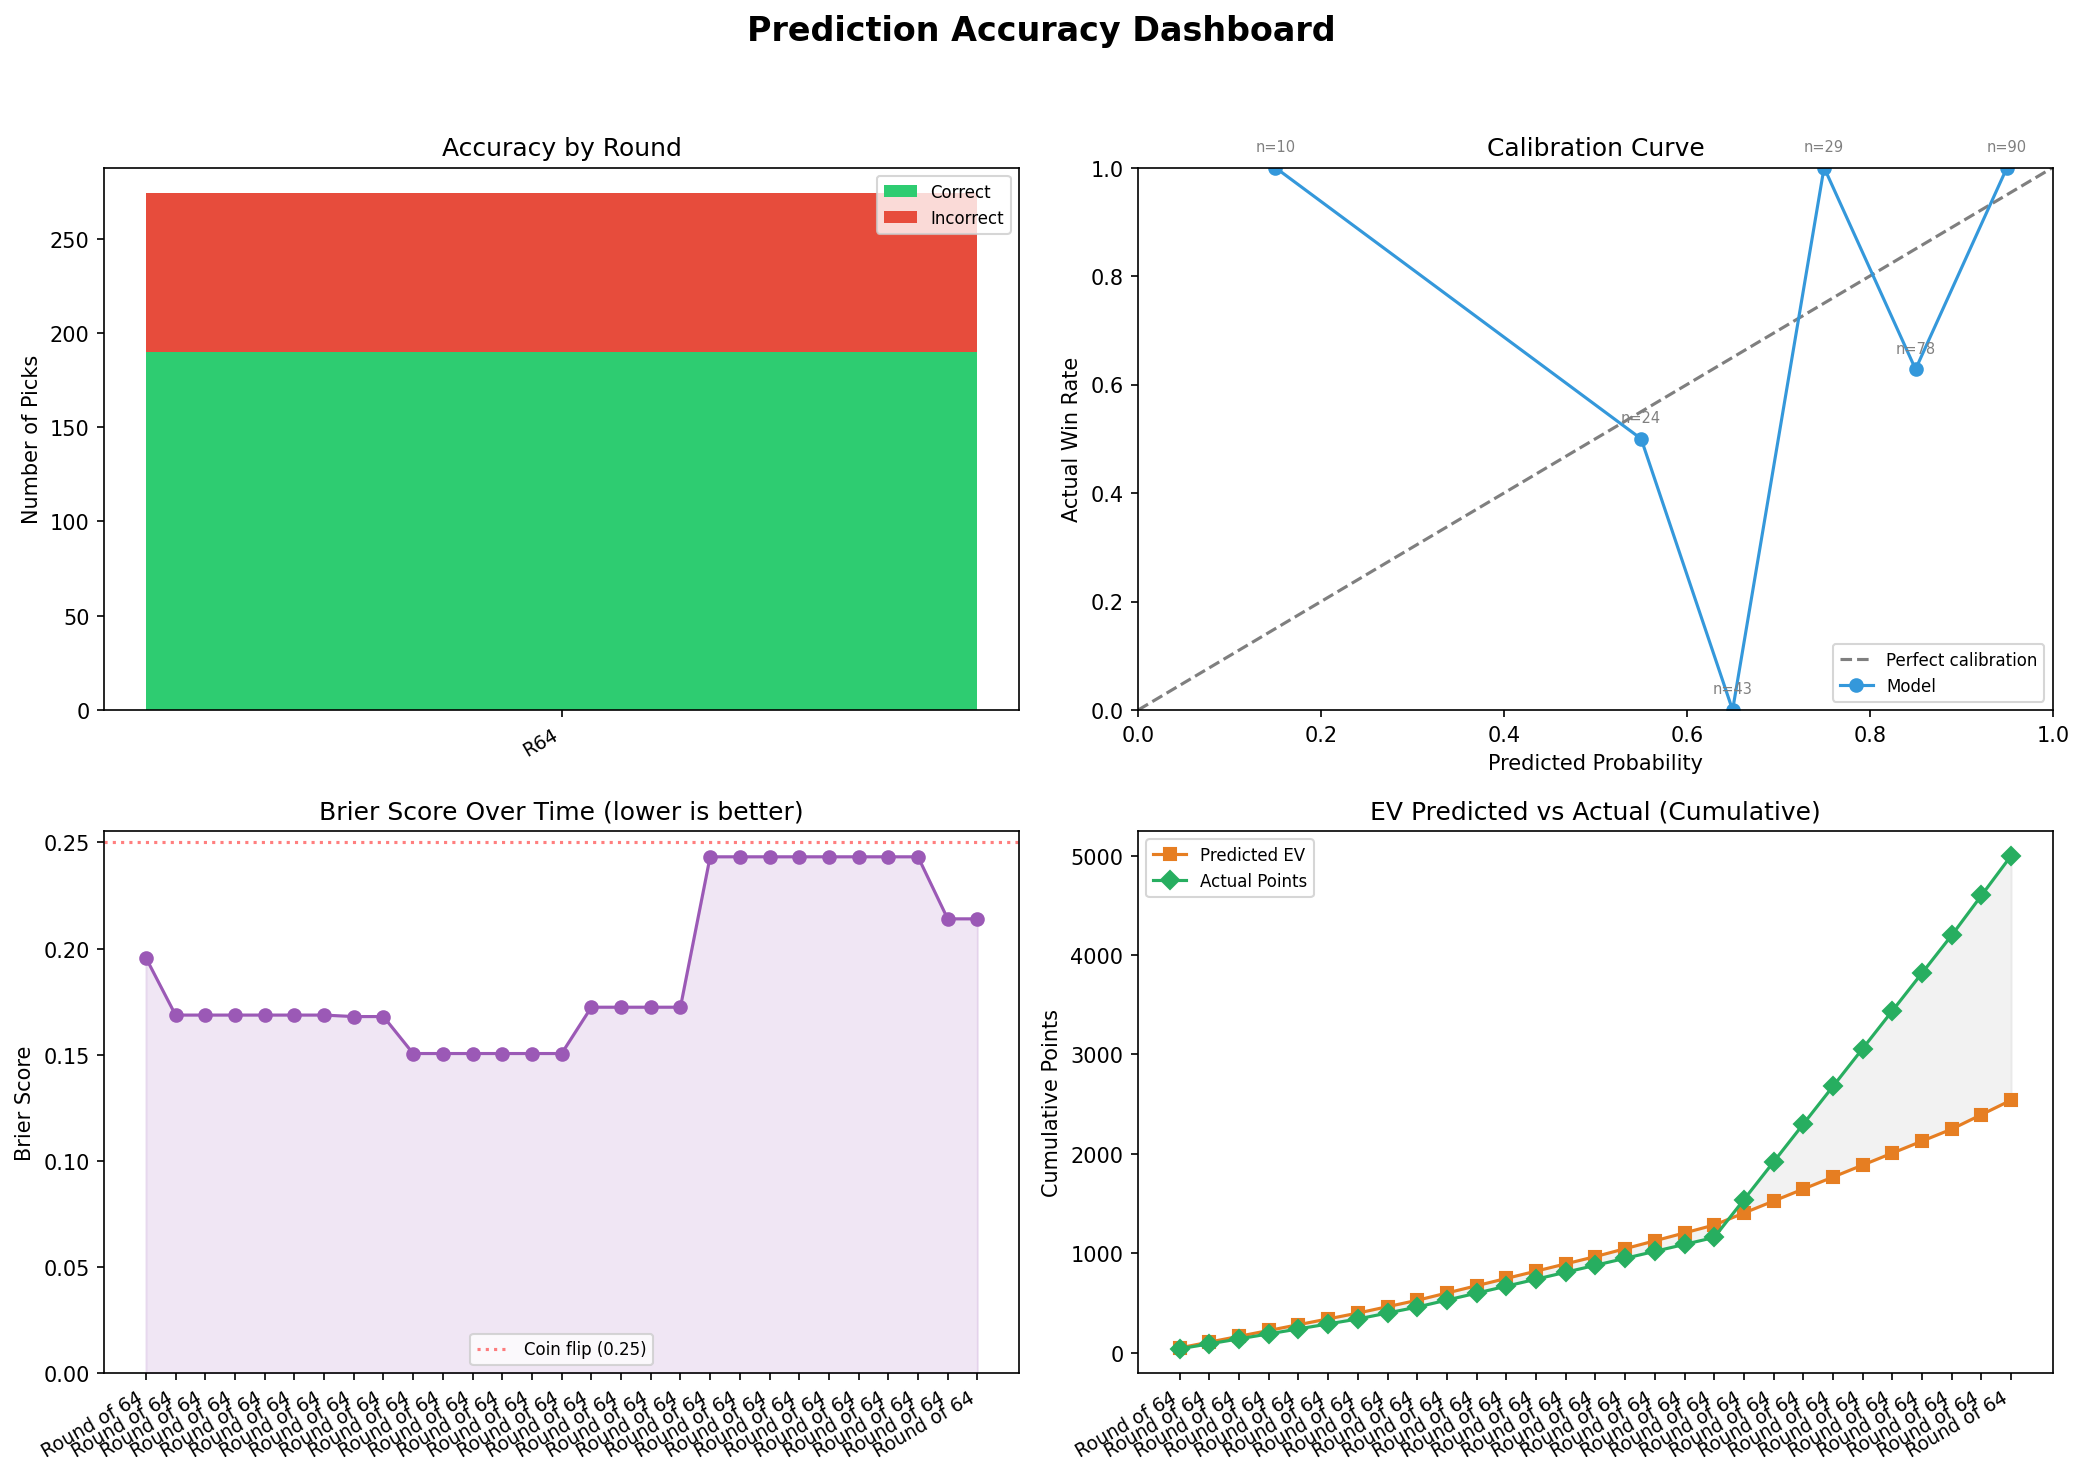
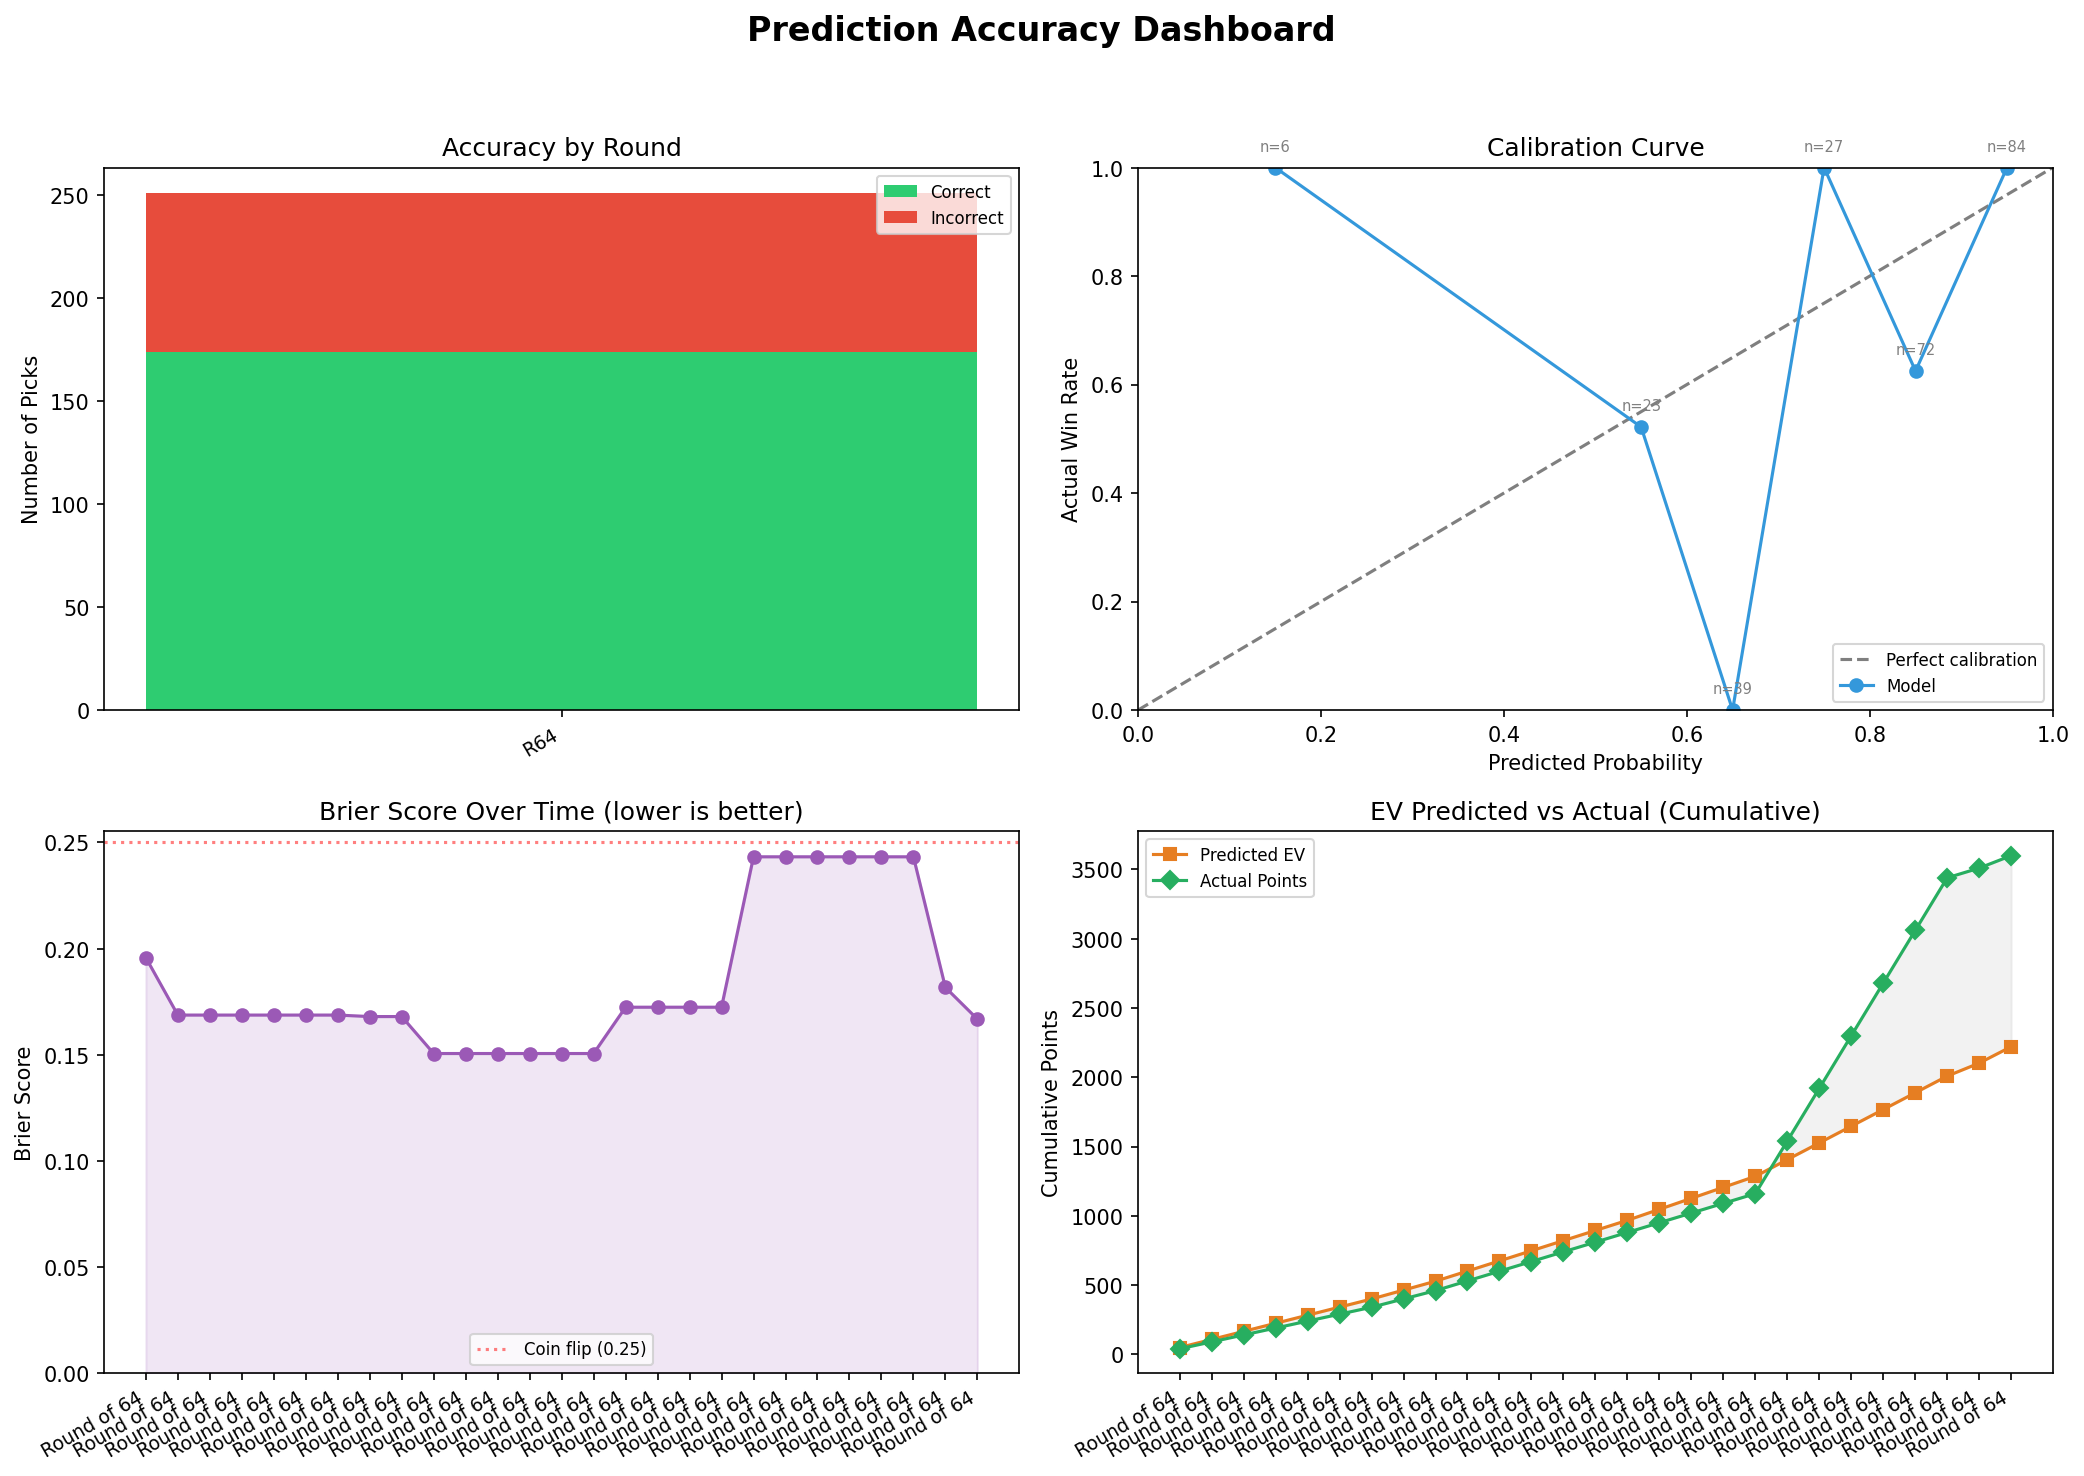
fix: _detect_round matched "Final" status as Championship round
ESPN's status description for completed games is "Final" (game over),
which matched the "final" keyword and tagged every game as Championship
round. Fixed by checking "final four" before "championship" and removing
the bare "final" match. Also fixed round field in existing tournament
state data and regenerated accuracy dashboard (11 -> 12 games tracked).

diff --git a/scripts/refresh/scrape_results.py b/scripts/refresh/scrape_results.py
@@ -246,10 +246,10 @@ def _find_game_id(team_a, team_b, bracket_games, existing_ids):
 def _detect_round(game_status_text):
     """Infer tournament round from ESPN game status / context text."""
     text = (game_status_text or "").lower()
-    if "championship" in text or "final" in text:
-        return "Championship"
     if "final four" in text or "semifinal" in text:
         return "Final Four"
+    if "championship" in text or "national final" in text:
+        return "Championship"
     if "elite" in text:
         return "Elite Eight"
     if "sweet" in text:
